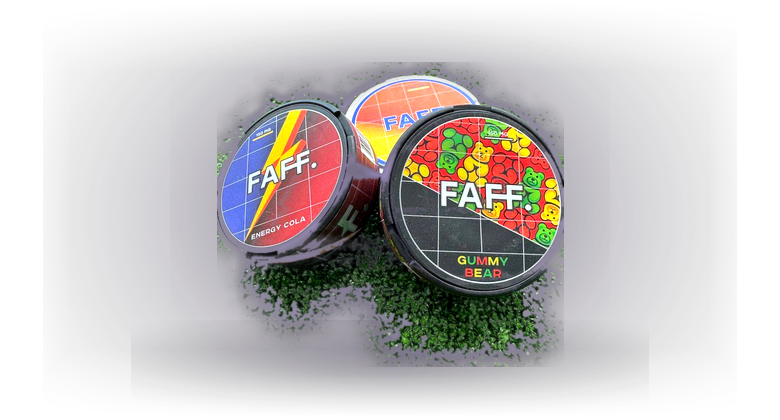
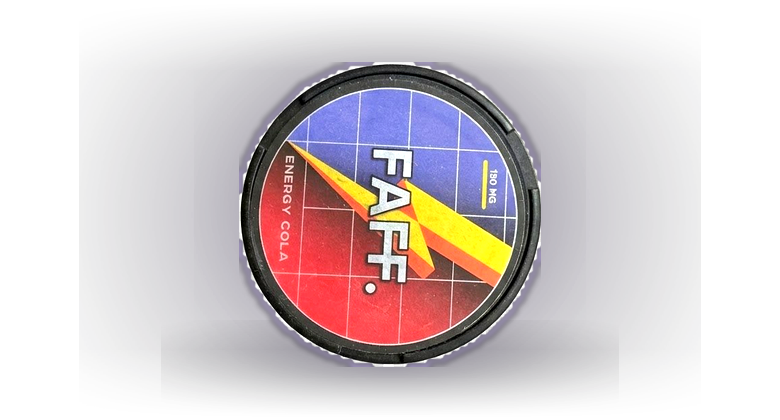
Faff Hard: карточка из нового фото (фон убран); кэш 20261013c

Changed region(s): [[0.2769, 0.1238, 0.7385, 0.8976], [0.8923, 0.3714, 0.9231, 0.65], [0.0923, 0.4024, 0.1231, 0.619]]

diff --git a/index.html b/index.html
@@ -5,7 +5,7 @@
 <meta name="viewport" content="width=device-width, initial-scale=1, maximum-scale=1, user-scalable=no">
 <title>VapeOasis — мини-приложение</title>
 <script src="https://telegram.org/js/telegram-web-app.js"></script>
-<link rel="stylesheet" href="style.css?v=20261013b">
+<link rel="stylesheet" href="style.css?v=20261013c">
 </head>
 <body>
 <div id="fx"></div>
@@ -82,7 +82,7 @@
 
 <div class="sheet" id="sheet"><div class="in" id="sheetIn"></div></div>
 
-<script src="products.js?v=20261013b"></script>
-<script src="app.js?v=20261013b"></script>
+<script src="products.js?v=20261013c"></script>
+<script src="app.js?v=20261013c"></script>
 </body>
 </html>

diff --git a/app.js b/app.js
@@ -20,7 +20,7 @@ let discountPick = localStorage.getItem("vo_disc") || null; // жижа, на к
 
 const $ = s=>document.querySelector(s);
 const money = n=>n+"₽";
-const IMG_VER = "20261013b";
+const IMG_VER = "20261013c";
 const imgv = u => u ? (u.indexOf("?")>=0 ? u : u+"?v="+IMG_VER) : u;
 const byId = id=>PRODUCTS.find(p=>p.id===id);
 const catEmoji = c=>({liquids:"🧪",pods:"🔌",disposable:"💨",cartridges:"♻",snus:"📦"}[c]||"•");
